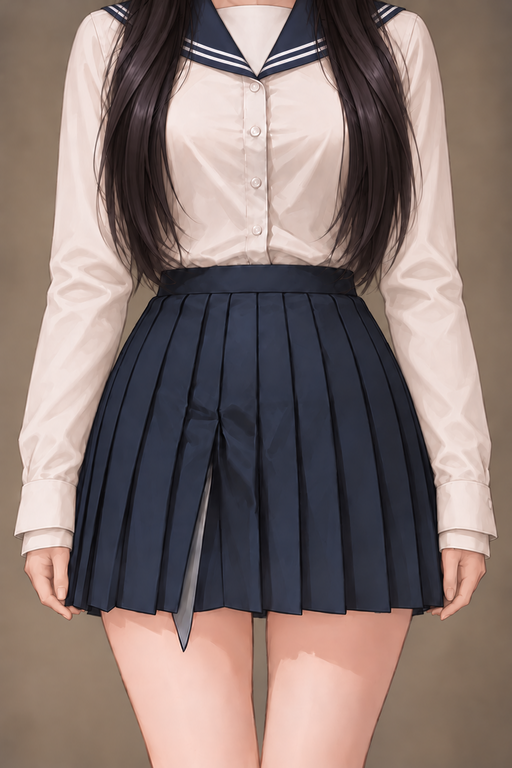
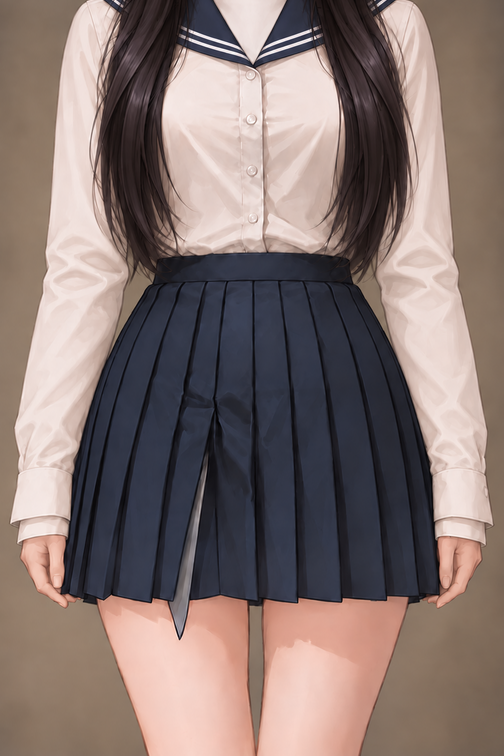
纯裁切上装顶部颈根 122

diff --git a/wardrobe-samples-illustrated/正式素材/上装/README.md b/wardrobe-samples-illustrated/正式素材/上装/README.md
@@ -87,7 +87,7 @@
 | 藏青西装外套 · 长发 · 胸围标准 · 正面 | [查看图片](藏青西装外套/长发/胸围标准/正面.png) | 512x768 | 已逐张自检：对应正侧背方向不变，仅新增同一黑直长发，衣服人物与手掌保留 |
 | 藏青西装外套 · 长发 · 胸围标准 · 侧面 | [查看图片](藏青西装外套/长发/胸围标准/侧面.png) | 512x768 | 已逐张自检：对应正侧背方向不变，仅新增同一黑直长发，衣服人物与手掌保留 |
 | 藏青西装外套 · 长发 · 胸围标准 · 背面 | [查看图片](藏青西装外套/长发/胸围标准/背面.png) | 512x768 | 已逐张自检：对应正侧背方向不变，仅新增同一黑直长发，衣服人物与手掌保留 |
-| 白底水手服上衣 · 长发 · 胸围标准 · 正面 | [查看图片](白底水手服上衣/长发/胸围标准/正面.png) | 512x768 | 已生成，待视觉复核 |
+| 白底水手服上衣 · 长发 · 胸围标准 · 正面 | [查看图片](白底水手服上衣/长发/胸围标准/正面.png) | 504x756 | 已视觉复核；按用户许可纯裁切去掉顶部颈根，保持衣服、人物与完整手掌不变。 |
 | 白底水手服上衣 · 长发 · 胸围标准 · 侧面 | [查看图片](白底水手服上衣/长发/胸围标准/侧面.png) | 512x768 | 已生成，待视觉复核 |
 | 白底水手服上衣 · 长发 · 胸围标准 · 背面 | [查看图片](白底水手服上衣/长发/胸围标准/背面.png) | 512x768 | 已生成，待视觉复核 |
 | 白衬衫 · 长发 · 胸围标准 · 正面 | [查看图片](白衬衫/长发/胸围标准/正面.png) | 512x768 | 已生成，待视觉复核 |

diff --git a/wardrobe-samples-illustrated/正式素材/上装/白底水手服上衣/README.md b/wardrobe-samples-illustrated/正式素材/上装/白底水手服上衣/README.md
@@ -16,7 +16,7 @@
 | 通用版 · 胸围较大 | 侧面 | [查看](通用版/胸围较大/侧面.png) | 512x768 | 已逐张自检：同款对应方向明确，胸围规格只改变上装松量，其余部位与手掌保持一致 |
 | 通用版 · 胸围较大 | 背面 | [查看](通用版/胸围较大/背面.png) | 512x768 | 已逐张自检：同款对应方向明确，胸围规格只改变上装松量，其余部位与手掌保持一致 |
 | 长发 · 胸围较小 | 背面 | [查看](长发/胸围较小/背面.png) | 512x768 | 胸围规格只改前胸裁片和松量；其余身体与后片保持不变，明确复用同款长发标准背面，不重复绘制造成人物变化。 |
-| 长发 · 胸围标准 | 正面 | [查看](长发/胸围标准/正面.png) | 512x768 | 已生成，待视觉复核 |
+| 长发 · 胸围标准 | 正面 | [查看](长发/胸围标准/正面.png) | 504x756 | 已视觉复核；按用户许可纯裁切去掉顶部颈根，保持衣服、人物与完整手掌不变。 |
 | 长发 · 胸围标准 | 侧面 | [查看](长发/胸围标准/侧面.png) | 512x768 | 已生成，待视觉复核 |
 | 长发 · 胸围标准 | 背面 | [查看](长发/胸围标准/背面.png) | 512x768 | 已生成，待视觉复核 |
 | 长发 · 胸围较大 | 背面 | [查看](长发/胸围较大/背面.png) | 512x768 | 胸围规格只改前胸裁片和松量；其余身体与后片保持不变，明确复用同款长发标准背面，不重复绘制造成人物变化。 |

diff --git a/wardrobe-samples-illustrated/README.md b/wardrobe-samples-illustrated/README.md
@@ -217,6 +217,7 @@
 
 
 
+
 ## 正式素材进度
 
 已生成独立服装素材 **161 / 185** 张、独立人物锚点 **10 / 10** 张。
